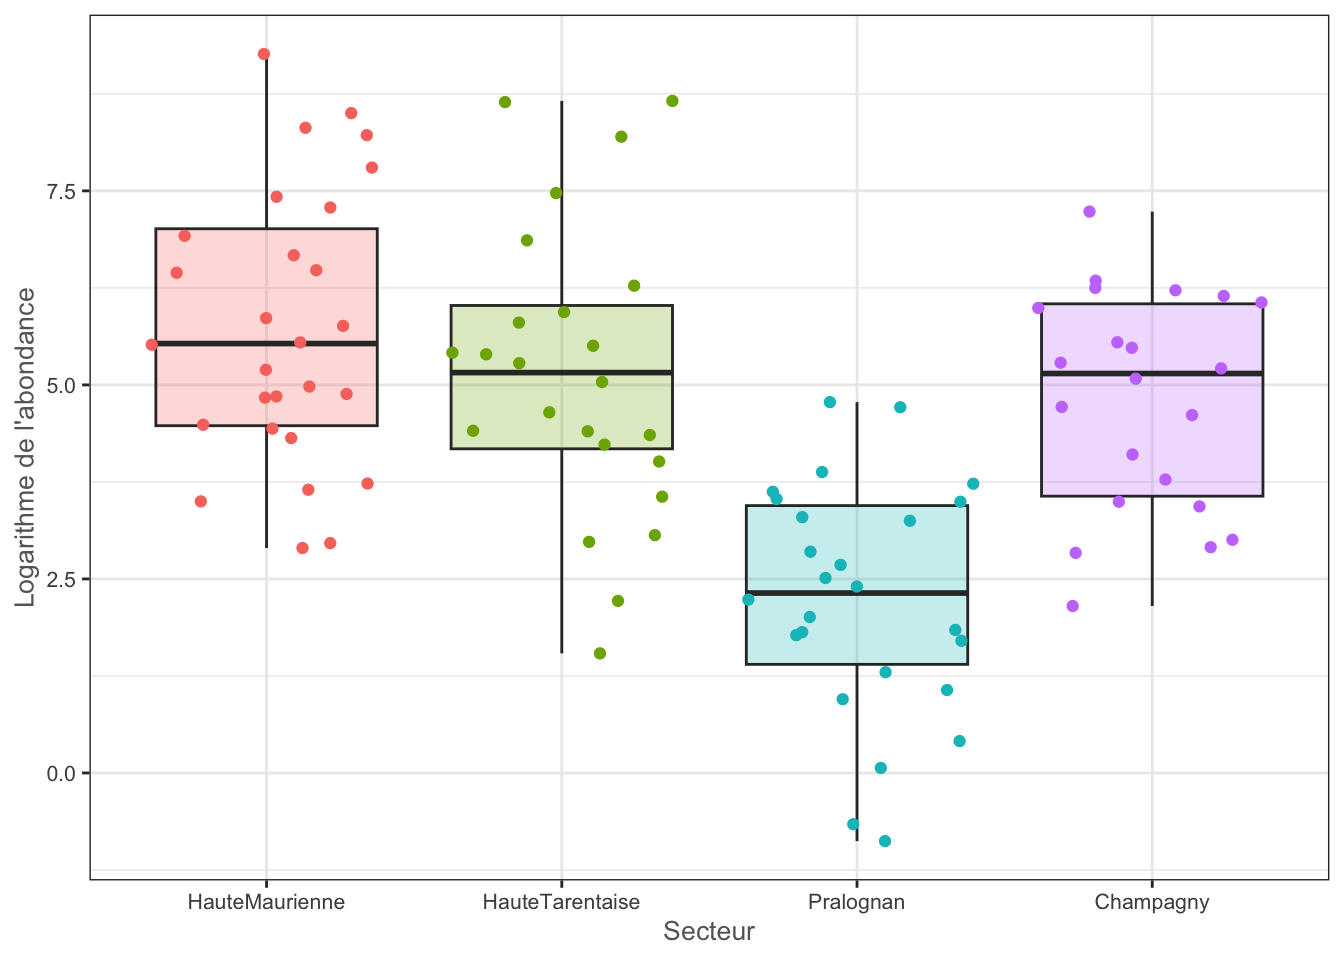
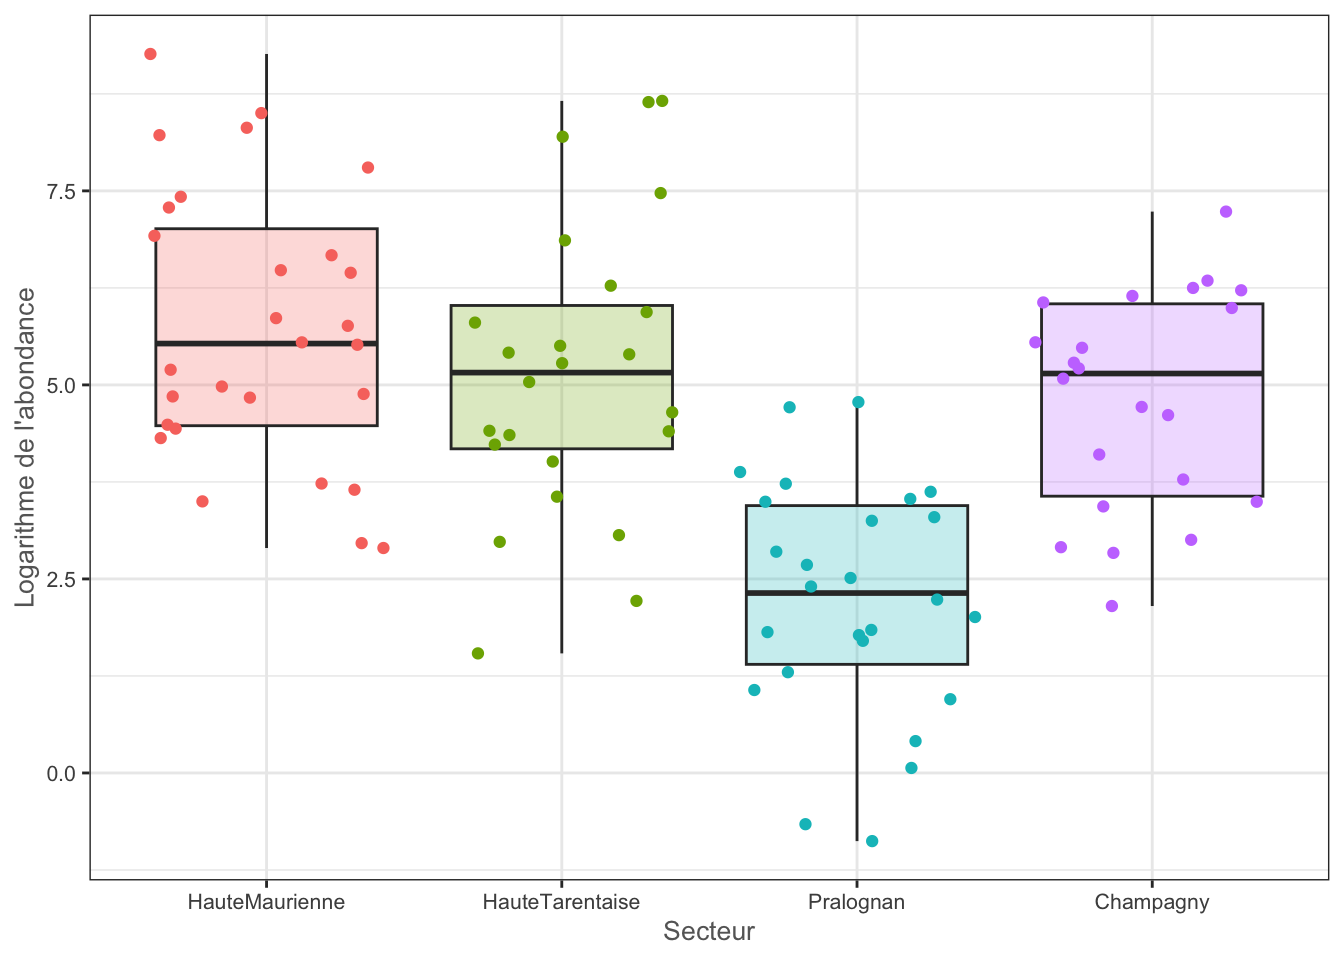
Cours Analyse multivariee - Ajout information mise a jour

diff --git a/docs/teaching/intro-analyse-multivariee/Lecture1_RegMulti.html b/docs/teaching/intro-analyse-multivariee/Lecture1_RegMulti.html
@@ -1188,22 +1188,22 @@ Call:
 lm(formula = y ~ x2 + x3 + x4 + x5)
 
 Residuals:
-     Min       1Q   Median       3Q      Max 
--2.28933 -0.55642  0.09015  0.65597  1.96791 
+    Min      1Q  Median      3Q     Max 
+-3.1725 -0.5841  0.0384  0.5697  2.7099 
 
 Coefficients:
             Estimate Std. Error t value Pr(&gt;|t|)    
-(Intercept)  0.09745    0.09388   1.038   0.3019    
-x2           2.25608    1.29601   1.741   0.0850 .  
-x3           1.58099    0.65916   2.398   0.0184 *  
-x4           1.05487    0.09884  10.672   &lt;2e-16 ***
-x5          -0.65051    0.65006  -1.001   0.3195    
+(Intercept)  0.02325    0.09393   0.247   0.8051    
+x2           1.67752    1.33741   1.254   0.2128    
+x3           1.38940    0.67799   2.049   0.0432 *  
+x4           1.10407    0.10188  10.837   &lt;2e-16 ***
+x5          -0.19691    0.66214  -0.297   0.7668    
 ---
 Signif. codes:  0 '***' 0.001 '**' 0.01 '*' 0.05 '.' 0.1 ' ' 1
 
-Residual standard error: 0.9068 on 95 degrees of freedom
-Multiple R-squared:  0.7516,    Adjusted R-squared:  0.7411 
-F-statistic: 71.85 on 4 and 95 DF,  p-value: &lt; 2.2e-16</code></pre>
+Residual standard error: 0.9184 on 95 degrees of freedom
+Multiple R-squared:  0.8131,    Adjusted R-squared:  0.8052 
+F-statistic: 103.3 on 4 and 95 DF,  p-value: &lt; 2.2e-16</code></pre>
 </div>
 </div>
 <p>Seule la variable <span class="math inline">\(x_4\)</span> est déclarée pertinente. Les <span class="math inline">\(p\)</span>-valeurs des tests concernant les variables <span class="math inline">\(x_2\)</span> et <span class="math inline">\(x_3\)</span> sont élevées : nous les éliminerions donc à tord. Elles sont “cachées” par <span class="math inline">\(x_4\)</span>.</p>
@@ -1219,21 +1219,21 @@ Call:
 lm(formula = y ~ x2 + x3 + x4)
 
 Residuals:
-     Min       1Q   Median       3Q      Max 
--2.27599 -0.56065  0.09212  0.67495  1.98152 
+    Min      1Q  Median      3Q     Max 
+-3.1731 -0.5741  0.0004  0.5750  2.7089 
 
 Coefficients:
             Estimate Std. Error t value Pr(&gt;|t|)    
-(Intercept)  0.08530    0.09309   0.916    0.362    
-x2           0.96230    0.09002  10.690  &lt; 2e-16 ***
-x3           0.92824    0.09490   9.782 4.38e-16 ***
-x4           1.05584    0.09884  10.683  &lt; 2e-16 ***
+(Intercept)  0.01984    0.09279   0.214    0.831    
+x2           1.28093    0.10051  12.744   &lt;2e-16 ***
+x3           1.18999    0.09963  11.944   &lt;2e-16 ***
+x4           1.10225    0.10121  10.891   &lt;2e-16 ***
 ---
 Signif. codes:  0 '***' 0.001 '**' 0.01 '*' 0.05 '.' 0.1 ' ' 1
 
-Residual standard error: 0.9069 on 96 degrees of freedom
-Multiple R-squared:  0.7489,    Adjusted R-squared:  0.7411 
-F-statistic: 95.46 on 3 and 96 DF,  p-value: &lt; 2.2e-16</code></pre>
+Residual standard error: 0.914 on 96 degrees of freedom
+Multiple R-squared:  0.8129,    Adjusted R-squared:  0.8071 
+F-statistic:   139 on 3 and 96 DF,  p-value: &lt; 2.2e-16</code></pre>
 </div>
 </div>
 <p>Sans la présence de la variable <span class="math inline">\(x_5\)</span>, les trois variables <span class="math inline">\(x_2\)</span>, <span class="math inline">\(x_3\)</span> et <span class="math inline">\(x_4\)</span> “deviennent” pertinentes.</p>

diff --git a/docs/teaching/intro-analyse-multivariee/index.html b/docs/teaching/intro-analyse-multivariee/index.html
@@ -252,7 +252,7 @@ document.addEventListener("DOMContentLoaded", function () {
 </ul></li>
 <li><p>Chapitre 2 - <a href="../../downloads/intro-analyse-multivariee/chap3_RegFacto.pdf">Régression linéaire factorielle</a></p>
 <ul>
-<li>TD 4 : <a href="../../downloads/TD4.zip">Analyse de variance à 2 facteurs</a></li>
+<li>TD 4 : <a href="../../downloads/intro-analyse-multivariee/TD4.zip">Analyse de variance à 2 facteurs</a></li>
 <li>TD 5 : Analyse de la covariance</li>
 </ul></li>
 <li><p>Chapitre 3 - Réduction (linéaire) de dimension</p>
@@ -276,6 +276,7 @@ document.addEventListener("DOMContentLoaded", function () {
 </div>
 <div class="callout-body-container">
 <p><em>Dernières mises à jour</em></p>
+<p><strong>30 septembre 2026</strong> – Ajout TD 4.</p>
 <p><strong>11 septembre 2026</strong> – TD 1 : précision exercice 1. ; Chapitre 3 : ajout du diaporama et de la page de cours.</p>
 <p><strong>10 septembre 2026</strong> – Structure de la page internet.</p>
 <p><strong>8 septembre 2026</strong> – Chapitre 2 : corrections mineures.</p>
